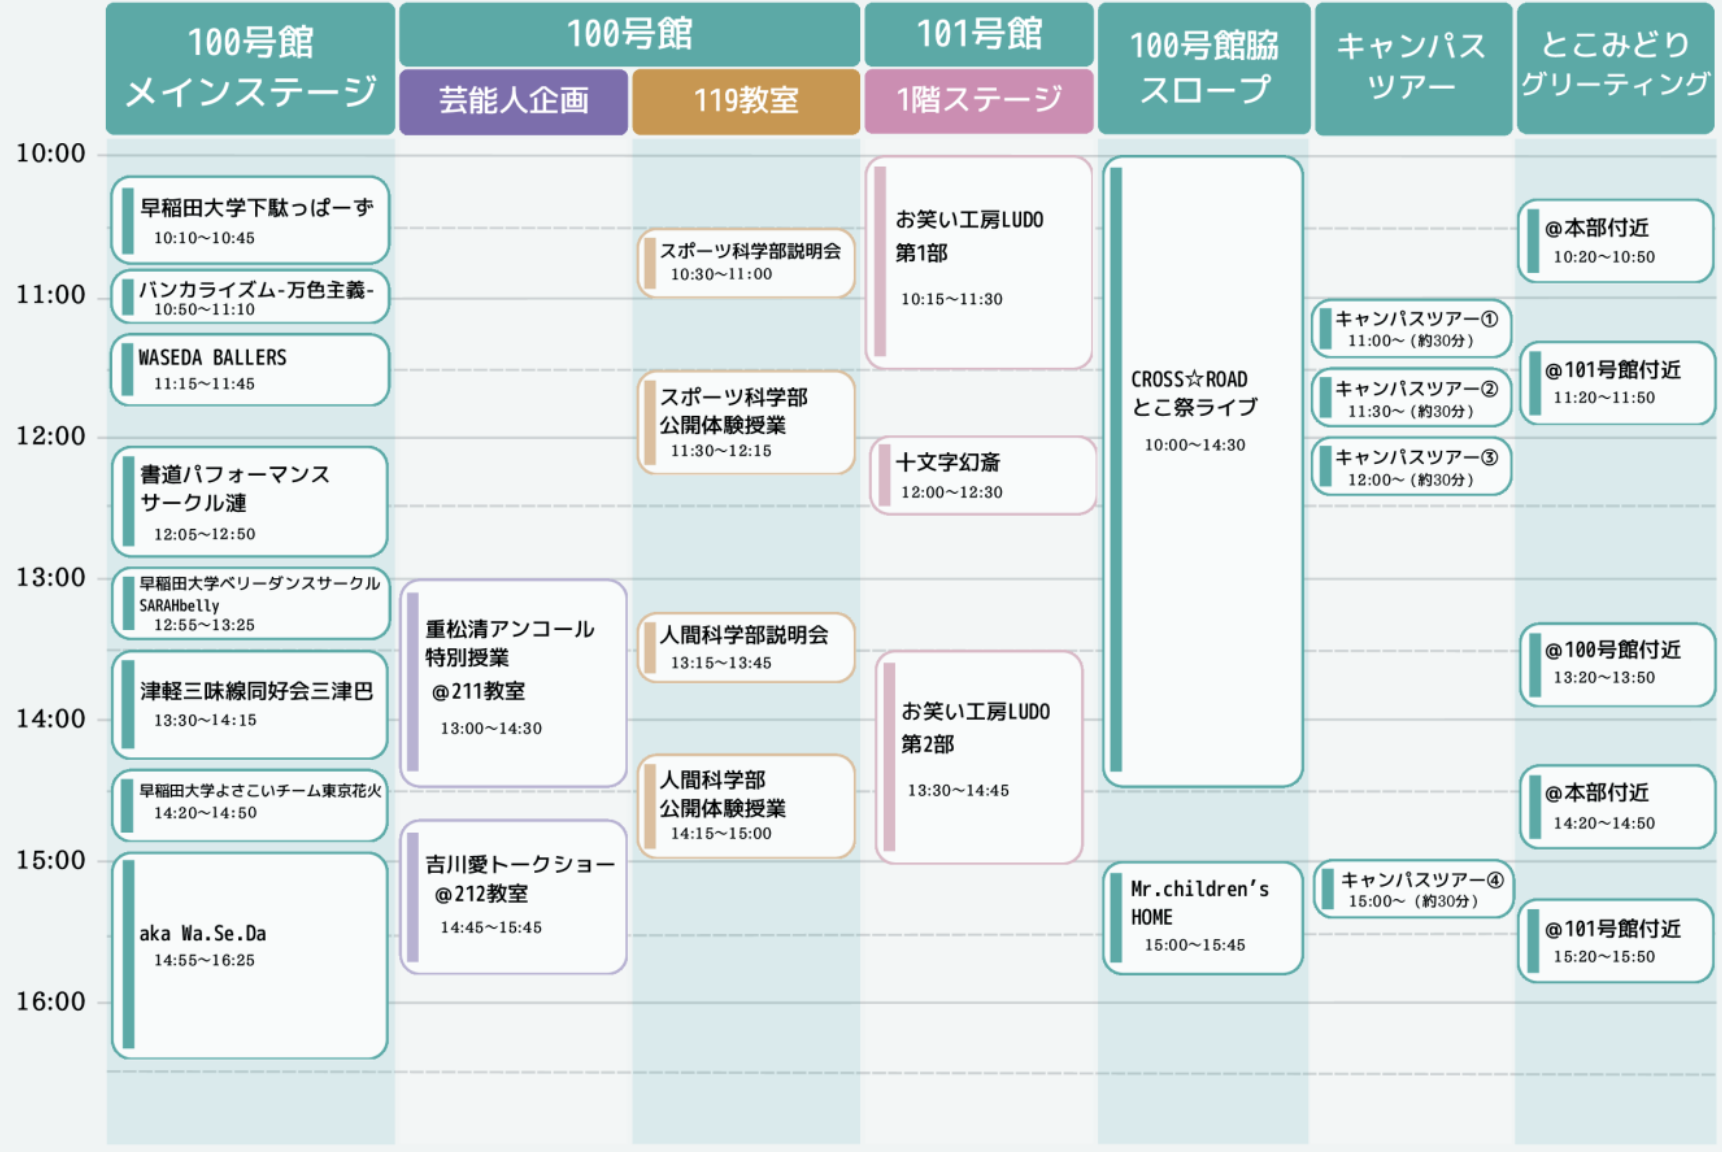
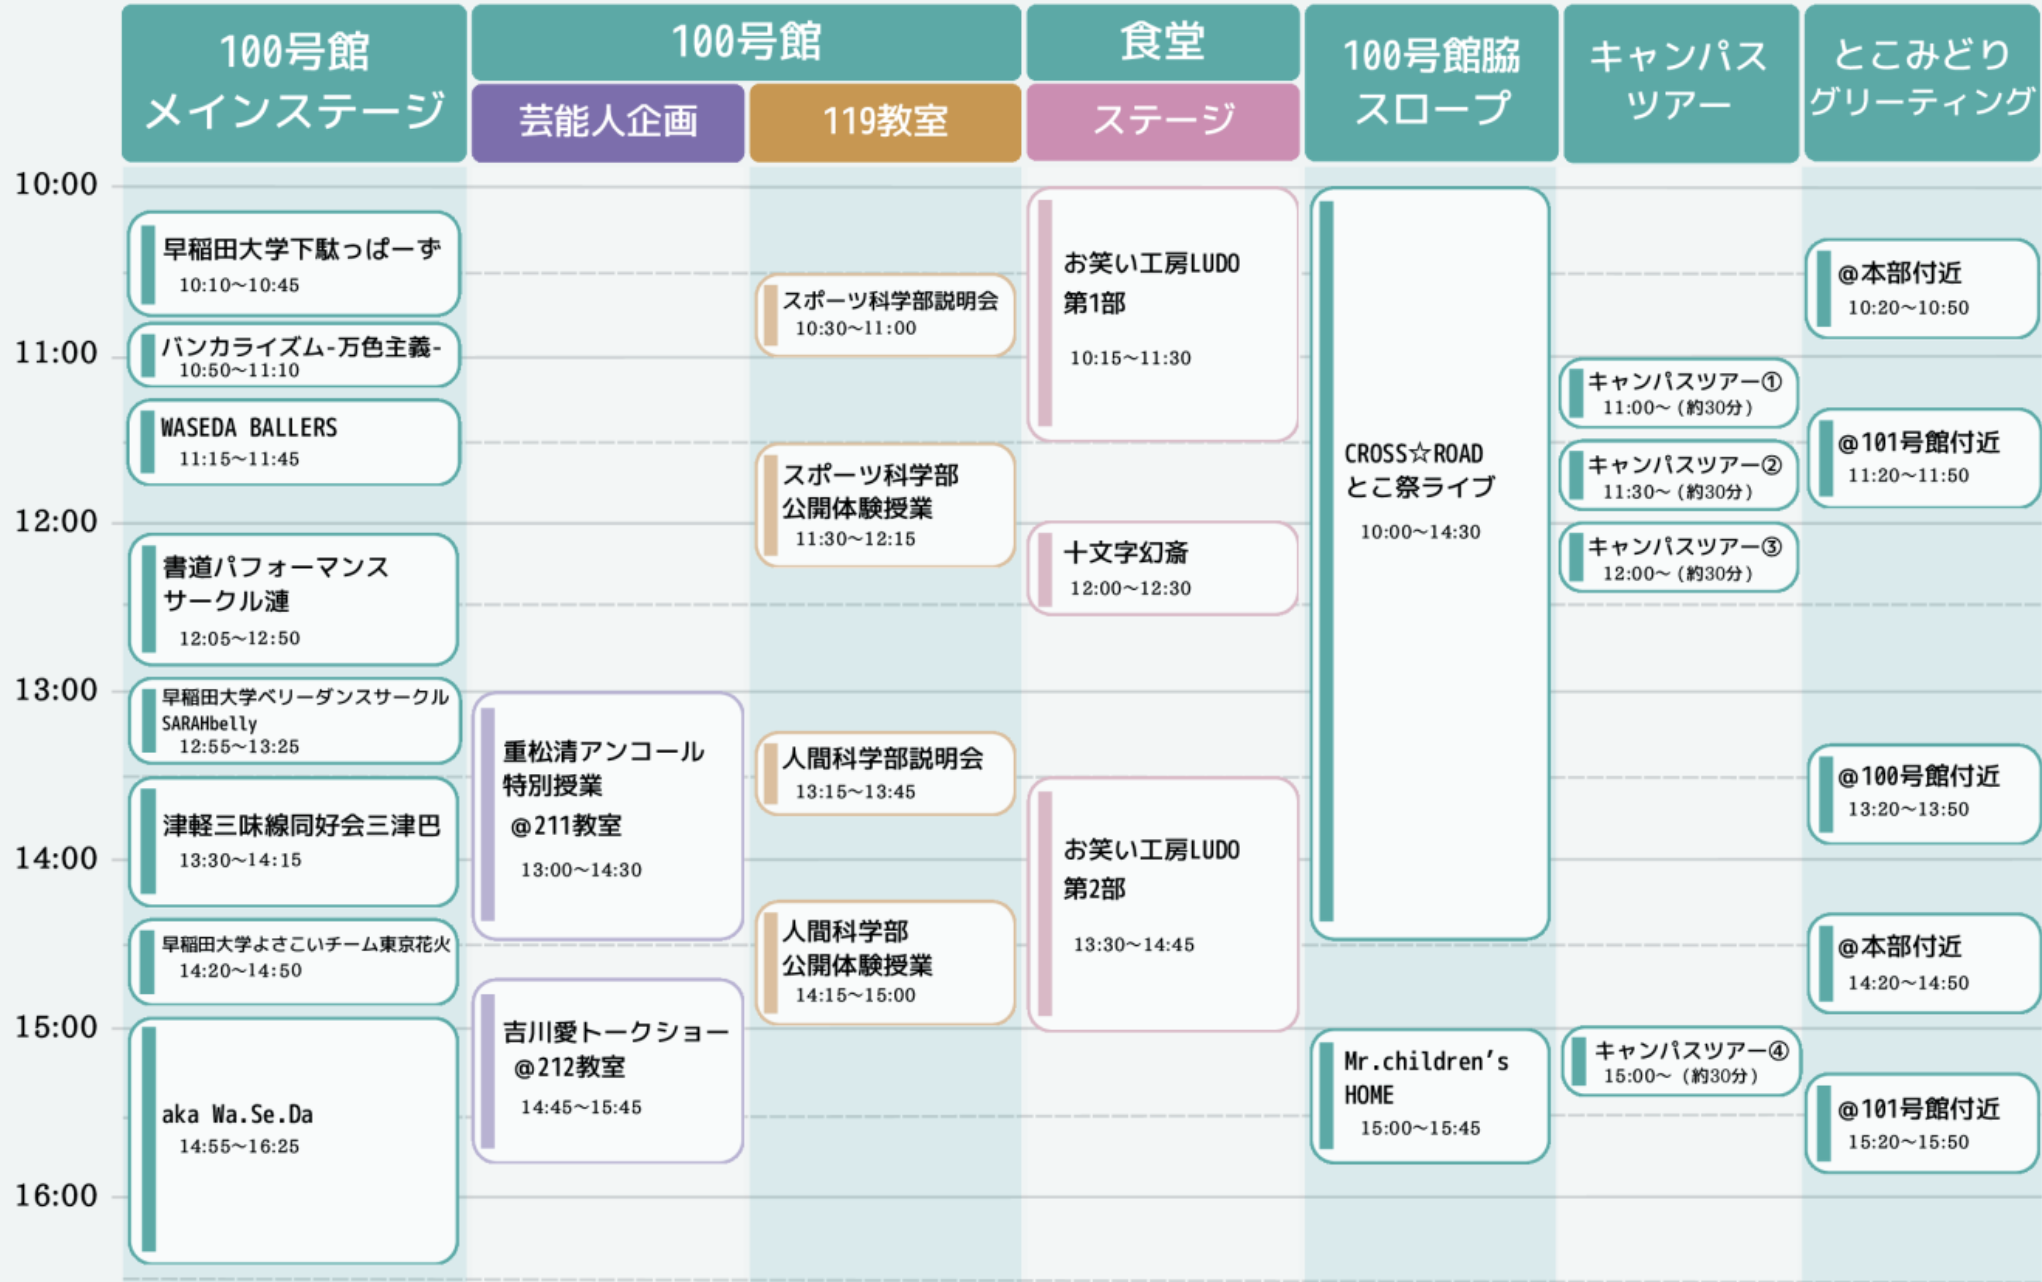
Update festival timetable images and refresh cached references

diff --git a/kikaku.html b/kikaku.html
@@ -57,8 +57,8 @@
                 <section class="program-timetable" aria-labelledby="program-timetable-title">
                   <h2 id="program-timetable-title">全体タイムテーブル</h2>
                   <figure>
-                    <a class="program-timetable__link" href="images/kikaku/TT.png" target="_blank" rel="noopener noreferrer" aria-label="全体タイムテーブルを拡大する">
-                      <img src="images/kikaku/TT.png" alt="所沢キャンパス祭2026 全体タイムテーブル。100号館メインステージ、芸能人企画、119教室、101号館1階ステージ、100号館脇スロープ、キャンパスツアー、とこみどりグリーティングの時間と会場。" width="1722" height="1152" decoding="async" />
+                    <a class="program-timetable__link" href="images/kikaku/TT.png?v=6de79dcb" target="_blank" rel="noopener noreferrer" aria-label="全体タイムテーブルを拡大する">
+                      <img src="images/kikaku/TT.png?v=6de79dcb" alt="所沢キャンパス祭2026 全体タイムテーブル。100号館メインステージ、芸能人企画、119教室、101号館1階ステージ、100号館脇スロープ、キャンパスツアー、とこみどりグリーティングの時間と会場。" width="2042" height="1282" decoding="async" />
                       <span>クリック・タップで拡大 <span aria-hidden="true">＋</span></span>
                     </a>
                     <figcaption class="program-sr-only">全体タイムテーブル</figcaption>
